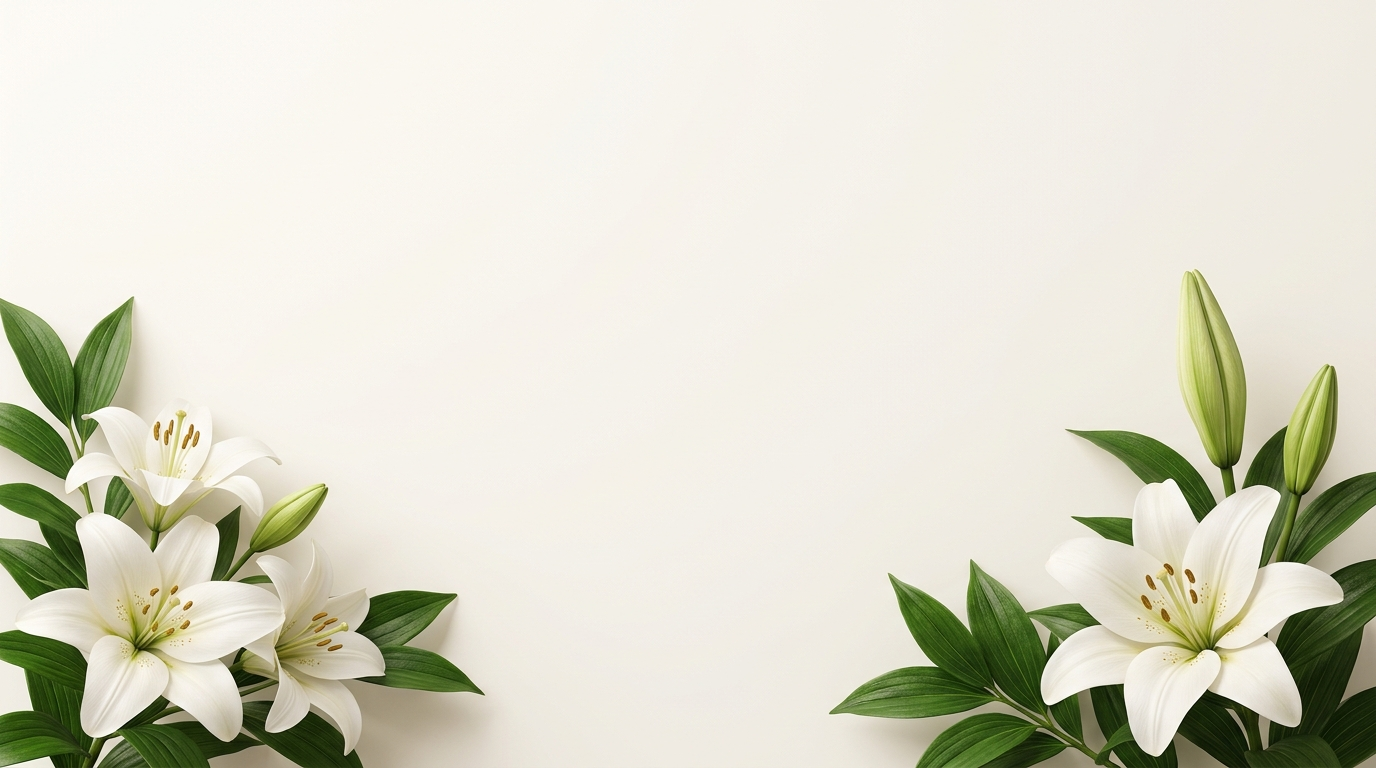
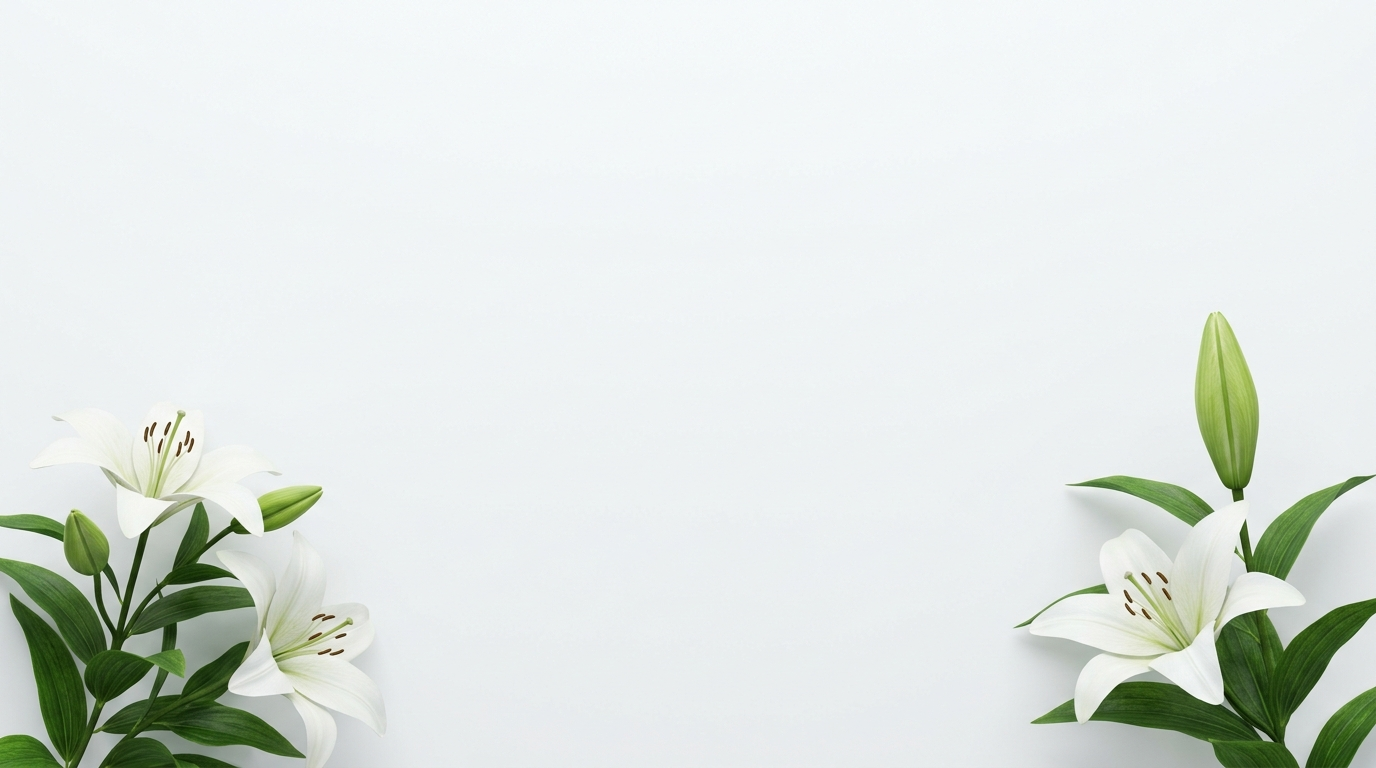
style: Restore original SV-002 flowers and tint background to cream using CSS

Changed region(s): [[0.5938, 0.3438, 1.0, 1.0], [0.0, 0.375, 0.375, 1.0]]

diff --git a/mimo-frontend-web-app/mimo-frontend/src/index.css b/mimo-frontend-web-app/mimo-frontend/src/index.css
@@ -1484,6 +1484,15 @@ body.theme-sv002,
     opacity: 1;
 }
 
+.theme-sv002 .kiosk-bg::before {
+    content: '';
+    position: absolute;
+    inset: 0;
+    background-color: #fdfbf7;
+    mix-blend-mode: multiply;
+    pointer-events: none;
+}
+
 /* Adjust text shadows and text colours globally for sv002 */
 .theme-sv002 .tag-line,
 .theme-sv002 .sub-heading,
